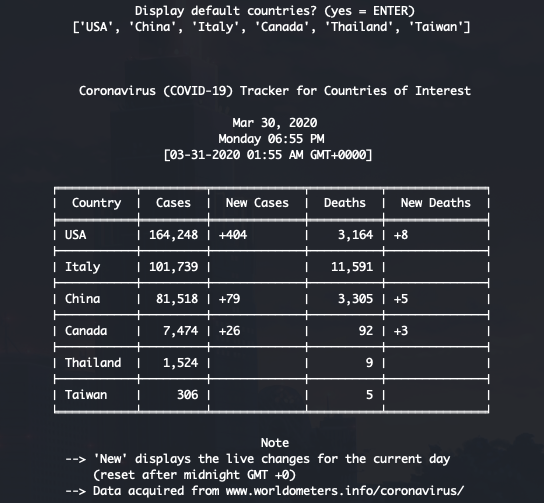
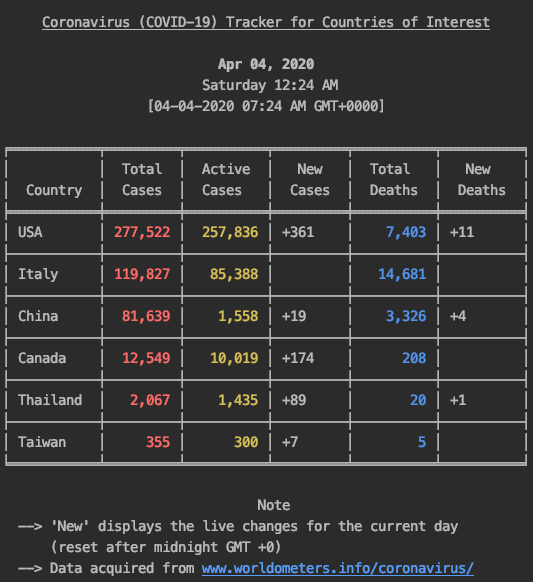
Add color and font styling and track active cases

Changed region(s): [[0.0, 0.0895, 0.9906, 1.0], [0.06, 0.0, 0.9306, 0.0596]]

diff --git a/covid_19.py b/covid_19.py
@@ -2,9 +2,21 @@ import os
 import datetime
 
 from bs4 import BeautifulSoup
+import colorama
 import pytz
 import requests
 from tabulate import tabulate
+
+
+class Style:
+    RESET = "\033[0m"
+    RED = "\033[31m"
+    BLUE_D = "\033[34m"
+    BLUE_L = "\033[94m"
+    GREEN = "\033[92m"
+    YELLOW = "\033[33m"
+    UNDERLINE = "\033[4m"
+    BOLD = "\033[1m"
 
 
 def in_terminal():
@@ -29,26 +41,60 @@ def extract_data(target_countries_list):
         if country.find("td").get_text() in target_countries_list:
             data_cols = country.find_all("td")
 
-            name = data_cols[0].get_text()
-            cases = data_cols[1].get_text()
-            deaths = data_cols[3].get_text()
+            name = data_cols[0].get_text().strip()
+            tot_cases = Style.RED + data_cols[1].get_text().strip() + Style.RESET
+            act_cases = Style.YELLOW + data_cols[6].get_text().strip() + Style.RESET
+            deaths = Style.BLUE_D + data_cols[3].get_text().strip() + Style.RESET
 
-            new_cases = data_cols[2].get_text()
-            new_deaths = data_cols[4].get_text()
+            new_cases = data_cols[2].get_text().strip()
+            new_deaths = data_cols[4].get_text().strip()
 
-            data_matrix.append([name, cases, new_cases, deaths, new_deaths])
+            data_matrix.append([name, tot_cases, act_cases, new_cases, deaths, new_deaths])
 
-    data_matrix = sorted(data_matrix, key=lambda row: int(row[1].replace(",", "")), reverse=True)
+    def strip_ansi(row):
+        new_str = row[1].replace(",", "")
+        num_start = -1
+        num_end = -1
+
+        for i, char in enumerate(new_str):
+            if num_start != -1:
+                if not char.isdigit():
+                    num_end = i
+                    break
+            if char == "m":
+                num_start = i + 1
+        return int(new_str[num_start:num_end])
+
+    data_matrix = sorted(data_matrix, key=strip_ansi, reverse=True)
 
     return data_matrix
 
 
+def force_align(table_rows, row_index, colalign="center"):
+
+    for row_num in row_index:
+        split = table_rows[row_num].split("│")
+
+        for i, header_str in enumerate(split):
+            col_width = len(header_str)
+            stripped_header = header_str.strip()
+
+            if colalign == "left":
+                split[i] = stripped_header.ljust(col_width)
+            elif colalign == "right":
+                split[i] = stripped_header.rjust(col_width)
+            else:
+                split[i] = stripped_header.center(col_width)
+
+        table_rows[row_num] = "│".join(split)
+
+
 def format_and_display_cli(data_table, center_headers=True):
-    title_text = "Coronavirus (COVID-19) Tracker for Countries of Interest"
+    title_text = Style.UNDERLINE + "Coronavirus (COVID-19) Tracker for Countries of Interest" + Style.RESET
 
     now_utc = datetime.datetime.now(pytz.timezone("UTC"))
     now_local = datetime.datetime.now()
-    date_text = now_local.strftime("%b %d, %Y")
+    date_text = Style.BOLD + now_local.strftime("%b %d, %Y") + Style.RESET
     time_text = now_local.strftime("%A %I:%M %p")
 
     now_gmt = now_utc.astimezone(pytz.timezone("GMT"))
@@ -63,8 +109,8 @@ def format_and_display_cli(data_table, center_headers=True):
         return
 
     display_table = tabulate(data_table,
-                             headers=["Country", "Cases", "New Cases", "Deaths", "New Deaths"],
-                             colalign=("left", "right", "left", "right", "left"),
+                             headers=["\nCountry", "Total\nCases", "Active\nCases", "New\nCases", "Total\nDeaths", "New\nDeaths"],
+                             colalign=("left", "right", "right", "left", "right", "left"),
                              tablefmt="fancy_grid")
     table_rows = display_table.split("\n")
     table_width = len(table_rows[0])
@@ -83,26 +129,19 @@ def format_and_display_cli(data_table, center_headers=True):
 
     # format only headers to be centered, regardless of column alignment (not supported in tabulate)
     if center_headers:
-        split_header = table_rows[1].split("│")
-
-        for i, header_str in enumerate(split_header):
-            width = len(header_str)
-            stripped_header = header_str.strip()
-            split_header[i] = stripped_header.center(width)
-
-        table_rows[1] = "│".join(split_header)
+        force_align(table_rows, (1, 2))
 
     # Display data
     print()
     print()
 
-    print(title_text.center(terminal_width) + "\n")
-    print(date_text.center(terminal_width))
+    print(title_text.center(terminal_width + 6) + "\n")
+    print(date_text.center(terminal_width + 6))
     print(time_text.center(terminal_width))
     print(gmt_text.center(terminal_width))
 
     for row in table_rows:
-        print(row.center(terminal_width))
+        print(left_whitespace_offset + row)
 
     print()
     print("Note".center(terminal_width))
@@ -122,6 +161,7 @@ def make_valid(str_entry):
                      "car": "CAR", "central african republic": "CAR",
                      "guinea bissau": "Guinea-Bissau",
                      "timor leste": "Timor-Leste"}
+
     clean_str = str_entry.strip().lower()
 
     if clean_str in varying_names:
@@ -131,6 +171,9 @@ def make_valid(str_entry):
 
 
 if __name__ == "__main__":
+    # use Colorama to make colored font work on Windows
+    colorama.init()
+
     default_countries = ["USA", "China", "Italy", "Canada", "Thailand", "Taiwan"]
     countries_of_interest = []
 

diff --git a/README.md b/README.md
@@ -3,16 +3,26 @@
 ## Overview
 This is a CLI tracker of the Coronavirus (COVID-19) for specific countries of interest.
 Information for each country is live and current. They include data on: total cases, total deaths, new cases, new deaths.
-All the COVID-19 data displayed are extracted from [Worldometers](https://www.worldometers.info/coronavirus/)
+All the COVID-19 data displayed are extracted from [Worldometers](https://www.worldometers.info/coronavirus/).
+
+**Note** Formatting may not display properly on Windows as there is a lack of ANSI escape sequence support. No tests have been run on Windows yet. If you dicover any bugs regrading this (or anything), please contact me.
+
+### Installation
+Make sure that Python is version 3.6+.
+<br>
+Simply install the necessary dependencies first by running the command `pip install -r requirements.txt` (use `pip3` if on macOS)
 
 ### Dependencies
 The CLI is a Python 3 (supports **3.6+**) script utilizing the following external libraries:
 
 * [beautifulsoup4](https://pypi.org/project/beautifulsoup4/)
+* [colorama](https://pypi.org/project/colorama/)
+* [pytz](https://pypi.org/project/pytz/)
 * [requests](https://pypi.org/project/requests/)
 * [tabulate](https://pypi.org/project/tabulate/)
-* [pytz](https://pypi.org/project/pytz/)
 
+For specific versions of these dependencies, please check the requirements file in this repo.
+<br>
 **Note** on Beautiful Soup and using the best parser:
 
 * lxml's HTML parser `("lxml")`
@@ -28,6 +38,8 @@ To change the parser, simply change the second string argument in the initializa
 A prompt will be shown to the user upon execution. 
 If the user wishes to display the default countries, simply enter blank to conintue.
 The default countries displayed are *USA, Italy, China, Canada, Thailand, and Taiwan*.
+
+**Regarding Color**: The colored fonts displayed could be different depending on the theme preferences set for the command line/terminal.
 
 **Display other countries** (Not default): Upon seeing the initial prompt, enter any character or string. Type desired countries to observe by typing their official names separated by commas.
 
